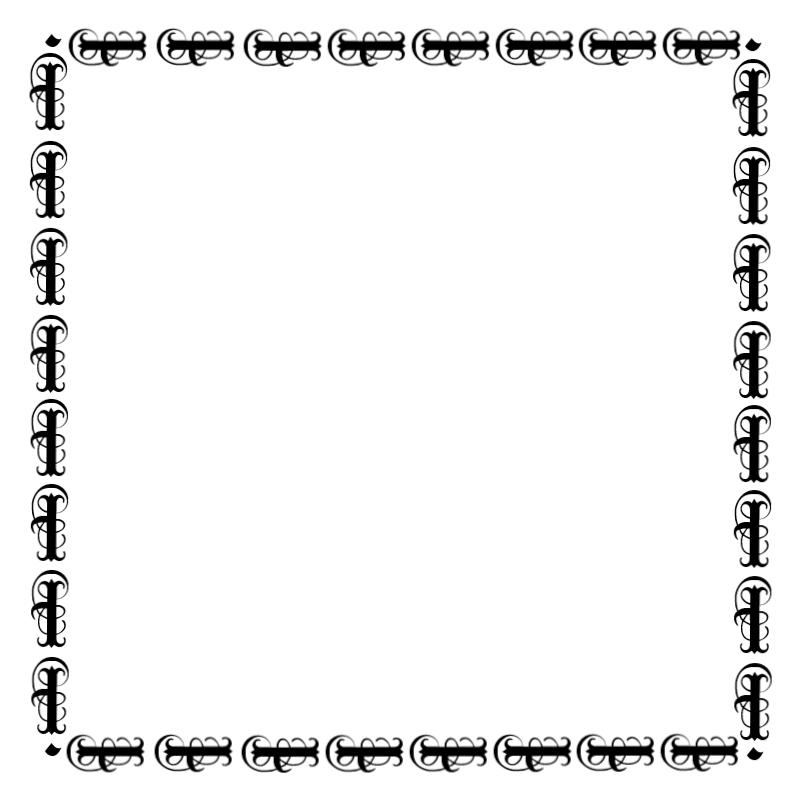
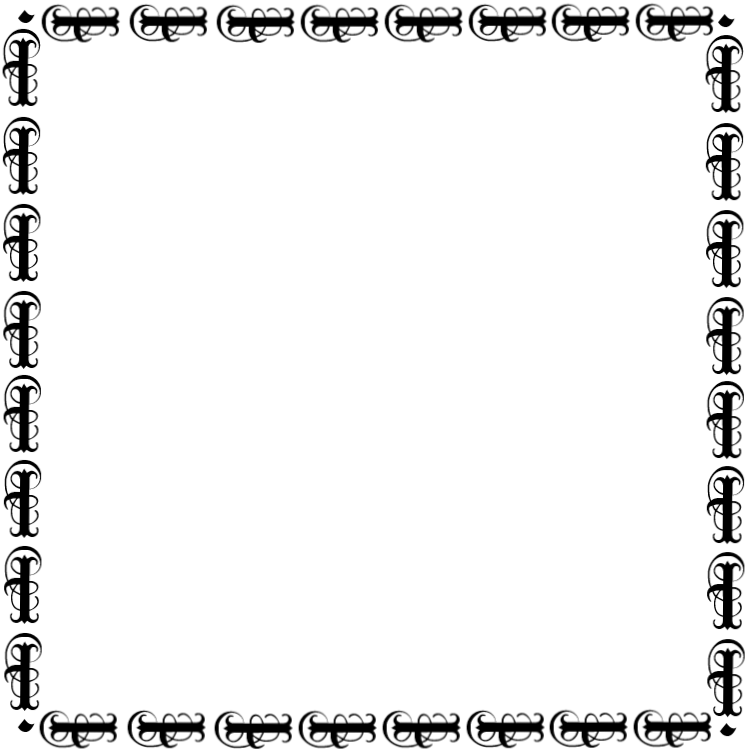
+ Menu class, + Button class
MainMenuState now uses the new Menu and Button class to display the menu

Changed region(s): [[0.0, 0.0, 1.0, 1.0]]

diff --git a/SideQuest II/SideQuest II/Button.cpp b/SideQuest II/SideQuest II/Button.cpp
@@ -1,0 +1,77 @@
+#include "Button.h"
+#include "Menu.h"
+
+Button::Button(App& app, Menu& menu, sf::Texture& texture, sf::Texture& hoverTexture, const sf::Font& font, const std::string str)
+: m_app(app)
+, m_text(str, font)
+, m_sprite(texture)
+, m_normalTexture(texture)
+, m_hoverTexture(hoverTexture)
+, m_menu(menu)
+{
+	sf::FloatRect rect(m_text.getLocalBounds());
+	m_text.setOrigin((rect.left + rect.width) / 2.f, (rect.top + rect.height) / 2.f);
+	m_text.setPosition(m_sprite.getLocalBounds().width / 2.f, m_sprite.getLocalBounds().height / 2.f);
+}
+
+void Button::setText(const std::string& text)
+{
+	m_text.setString(text);
+}
+
+void Button::setTexture(const sf::Texture& texture)
+{
+	m_sprite.setTexture(texture);
+}
+
+void Button::setFont(const sf::Font& font)
+{
+	m_text.setFont(font);
+}
+
+void Button::setHandler(std::function<void(sf::Vector2f point)> handler)
+{
+	m_handler = handler;
+}
+
+void Button::update()
+{
+	sf::FloatRect bounds(getTransform().transformRect(m_sprite.getGlobalBounds()));
+	bounds = m_menu.getTransform().transformRect(bounds);
+	if (bounds.contains(m_app.inputmanager.getMousePos()))
+	{
+		if (m_app.inputmanager.isButtonHit(sf::Mouse::Left))
+		{
+			if (m_handler)
+			{
+				sf::Vector2f clickAbsolute(m_app.inputmanager.getMousePos());
+				sf::Vector2f clickRelative(clickAbsolute.x - m_sprite.getGlobalBounds().width, clickAbsolute.y - m_sprite.getGlobalBounds().height);
+				m_handler(clickRelative);
+			}
+		}
+		m_sprite.setTexture(m_hoverTexture);
+	}
+	else 
+	{
+		m_sprite.setTexture(m_normalTexture);
+	}
+	
+	sf::FloatRect rect(m_text.getLocalBounds());
+	m_text.setOrigin((rect.left + rect.width) / 2.f, (rect.top + rect.height) / 2.f);
+	
+	m_text.setPosition(m_sprite.getLocalBounds().width / 2.f, m_sprite.getLocalBounds().height / 2.f);
+}
+
+
+sf::Vector2f Button::getSize() const
+{
+	sf::FloatRect rect = m_sprite.getLocalBounds();
+	return sf::Vector2f(rect.width, rect.height);
+}
+
+void Button::draw(sf::RenderTarget& target, sf::RenderStates states) const
+{
+	states.transform *= getTransform();
+	target.draw(m_sprite, states);
+	target.draw(m_text, states);
+}

diff --git a/SideQuest II/SideQuest II/MainMenuState.cpp b/SideQuest II/SideQuest II/MainMenuState.cpp
@@ -4,24 +4,24 @@
 MainMenuState::MainMenuState(App& app)
 : State(app)
 , m_borderTexture(m_app.texturemanager.get("Assets/Menu/border.png"))
-, m_borderSprite(m_borderTexture)
+, m_menu(app, m_borderTexture, sf::Vector2f(45.f, 50.f))
 {
-	m_borderSprite.setOrigin(m_borderSprite.getLocalBounds().width / 2.f, m_borderSprite.getLocalBounds().height / 2.f);
-	m_borderSprite.setPosition(m_app.window.getView().getCenter());
-}
+	m_menu.setOrigin(m_menu.getSize().x / 2.f, m_menu.getSize().y / 2.f);
+	m_menu.setPosition(m_app.window.getView().getCenter());
 
-
-MainMenuState::~MainMenuState()
-{
+	m_menu.addButton("Assets/Menu/button.png", "Assets/Menu/button_hover.png", "Assets/Fonts/ALGER.ttf", "Play");
+	m_menu.addButton("Assets/Menu/button.png", "Assets/Menu/button_hover.png", "Assets/Fonts/ALGER.ttf", "Options");
+	m_menu.addButton("Assets/Menu/button.png", "Assets/Menu/button_hover.png", "Assets/Fonts/ALGER.ttf", "Exit");
 }
 
 void MainMenuState::draw(sf::RenderTarget& target, sf::RenderStates states) const
 {
-	target.draw(m_borderSprite);
+	target.draw(m_menu);
 }
 
 void MainMenuState::update()
 {
-	m_borderSprite.setOrigin(m_borderSprite.getLocalBounds().width / 2.f, m_borderSprite.getLocalBounds().height / 2.f);
-	m_borderSprite.setPosition(m_app.window.getView().getCenter());
+	//m_borderSprite.setOrigin(m_borderSprite.getLocalBounds().width / 2.f, m_borderSprite.getLocalBounds().height / 2.f);
+	//m_borderSprite.setPosition(m_app.window.getView().getCenter());
+	m_menu.update();
 }

diff --git a/SideQuest II/SideQuest II/Menu.cpp b/SideQuest II/SideQuest II/Menu.cpp
@@ -1,0 +1,56 @@
+#include "Menu.h"
+
+
+Menu::Menu(App& app, const sf::Texture& borderTexture, const sf::Vector2f& borderWidth)
+: m_borderSprite(borderTexture)
+, m_borderWidth(borderWidth)
+, m_app(app)
+{
+}
+
+void Menu::addButton(Button b)
+{
+	b.setPosition(sf::Vector2f(m_borderWidth.x + 5, m_borderWidth.y + m_buttons.size()*(b.getSize().y + 15)));
+	m_buttons.push_back(b);
+}
+
+void Menu::addButton(const std::string& texturePath, const std::string& hoverTexturePath, const std::string& fontPath, std::string text)
+{
+	addButton(Button(m_app, *this, m_app.texturemanager.get(texturePath), m_app.texturemanager.get(hoverTexturePath), m_app.fontmanager.get(fontPath), text));
+}
+
+void Menu::setBorderTexture(sf::Texture& texture)
+{
+	m_borderSprite.setTexture(texture);
+}
+
+void Menu::setBorderWidth(sf::Vector2f& width)
+{
+	m_borderWidth = width;
+	for (size_t i = 0; i < m_buttons.size(); i++)
+	{
+		m_buttons[i].setPosition(m_borderWidth.x + 5, m_borderWidth.y + i*(m_buttons[0].getSize().y + 15));
+	}
+}
+
+void Menu::draw(sf::RenderTarget& target, sf::RenderStates states) const
+{
+	states.transform *= getTransform();
+	target.draw(m_borderSprite, states);
+	
+	for (auto& b : m_buttons)
+	{
+		target.draw(b, states);
+	}
+}
+
+void Menu::update()
+{
+	for (auto& b : m_buttons)
+		b.update();
+}
+
+sf::Vector2f Menu::getSize() const
+{
+	return sf::Vector2f(m_borderSprite.getTexture()->getSize());
+}

diff --git a/SideQuest II/SideQuest II/Button.h b/SideQuest II/SideQuest II/Button.h
@@ -1,0 +1,34 @@
+#pragma once
+#include <SFML\Graphics.hpp>
+#include <string>
+#include <functional>
+
+#include "App.h"
+class Menu;
+
+class Button :
+	public sf::Drawable,
+	public sf::Transformable
+{
+public:
+	Button(App& app, Menu& menu, sf::Texture& texture, sf::Texture& hoverTexture, const sf::Font& font, std::string str = "");
+	void setText(const std::string& text);
+	void setTexture(const sf::Texture& tex);
+	void setFont(const sf::Font& font);
+	void setHandler(std::function<void(sf::Vector2f point)> handler);
+
+	void update();
+	
+	sf::Vector2f getSize() const;
+
+	virtual void draw(sf::RenderTarget& target, sf::RenderStates states) const;
+private:
+	sf::Text m_text;
+	sf::Sprite m_sprite;
+	sf::Texture& m_normalTexture;
+	sf::Texture& m_hoverTexture;
+	std::function<void(sf::Vector2f point)> m_handler;
+	App& m_app;
+	Menu& m_menu;
+};
+

diff --git a/SideQuest II/SideQuest II/Menu.h b/SideQuest II/SideQuest II/Menu.h
@@ -1,0 +1,23 @@
+#pragma once
+#include <SFML\Graphics.hpp>
+#include "Button.h"
+class Menu :
+	public sf::Drawable,
+	public sf::Transformable
+{
+public:
+	Menu(App& app, const sf::Texture& borderTexture, const sf::Vector2f& borderWidth);
+	void addButton(Button b);
+	void addButton(const std::string& texturePath, const std::string& hoverTexturePath, const std::string& fontPath, std::string text = "");
+	void setBorderTexture(sf::Texture& texture);
+	void setBorderWidth(sf::Vector2f& width);
+	sf::Vector2f getSize() const;
+	virtual void draw(sf::RenderTarget& target, sf::RenderStates states) const;
+	void update();
+private:
+	std::vector<Button> m_buttons;
+	sf::Sprite m_borderSprite;
+	sf::Vector2f m_borderWidth;
+	App& m_app;
+};
+

diff --git a/SideQuest II/SideQuest II/MainMenuState.h b/SideQuest II/SideQuest II/MainMenuState.h
@@ -1,16 +1,18 @@
 #pragma once
 #include "State.h"
+#include "Menu.h"
+
 class MainMenuState :
 	public State
 {
 public:
 	MainMenuState(App& app);
-	~MainMenuState();
 
 	virtual void draw(sf::RenderTarget& target, sf::RenderStates states) const;
 	virtual void update();
 private:
 	sf::Texture& m_borderTexture;
-	sf::Sprite m_borderSprite;
+
+	Menu m_menu;
 };
 
